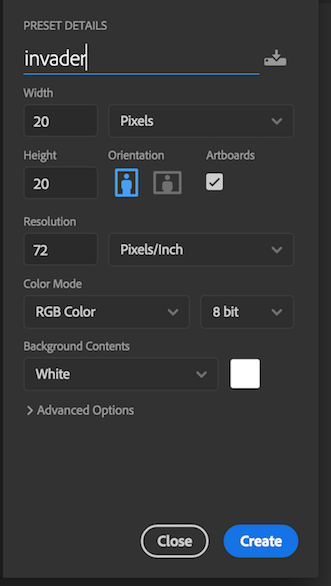
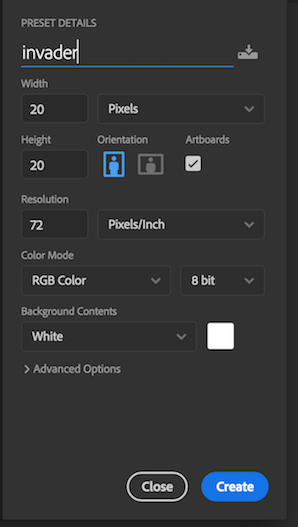
small changes

diff --git a/_posts/2016-12-11-photoshop-pixel-art.md b/_posts/2016-12-11-photoshop-pixel-art.md
@@ -5,7 +5,7 @@ comments: True
 excerpt_separator: <!--more-->
 ---
 
-I'm a huge fan of retro video games and pixel art. Over the christmas break, I tried (after a long hiatus) to create some pixel art for a retro-style 2D game I was building in Unity for fun. I had to struggle a little in setting up Photoshop to create 2D sprites and the background, so here's a quick step-by-step tutorial on how to configure Photoshop to create pixel art.
+I'm a huge fan of retro video games and [pixel art](http://imgur.com/a/d30KO). Over the christmas break, I tried (after a long hiatus) to create some pixel art for a retro-style 2D mobile game I was building in Unity for fun. I had to struggle a little in setting up Photoshop to create 2D sprites and the background, so here's a quick step-by-step tutorial on how to configure Photoshop to create pixel art.
 
 <!--more-->
 
@@ -13,7 +13,7 @@ I'm a huge fan of retro video games and pixel art. Over the christmas break, I t
 
 Pixel art is done in very low resolutions. What this means is that you'll start by creating a **very small image, one that you can barely see without zooming in**. I can't give you a rule of thumb, but I generally use 20x20 pixels for sprites (sometimes 40x40 pixels if I want to put in more details) and about 150x80 pixels for backgrounds.
 
-So go ahead and create a new image in Photoshop. The screenshot below is for creating a 20x20 pixels sprite.
+So go ahead and create a new image in Photoshop. The screenshot below is for creating a *20x20 pixels* sprite.
 
 ![photoshop-pixel-art]({{ site.url }}/img/ps-pixel/1.png)
 
@@ -23,19 +23,21 @@ After you have created the image, you'll be able to see it barely. So zoom in so
 
 ## Step 2: Setup Image Interpolation to Nearest Neighbors
 
-When your pixel art is resized or scaled, you'll want the edges or corners to look hard and jagged instead of smooth and blurred. Be default, Photoshop uses Bicubic interpolation (or Bilinear) that produces a blurred effect when images are enlarged. While Bicubic interpolation works great for normal images, pixel art scaled using Bicubic look terrible and blurry as hell. As as example ([source](http://blog.demofox.org/2015/08/15/resizing-images-with-bicubic-interpolation/)):
+When your pixel art is resized or scaled, you'll want the **edges or corners to look hard and jagged instead of smooth and blurred**. Be default, Photoshop uses *Bicubic interpolation* (or Bilinear) that produces a blurred effect when images are enlarged. While Bicubic interpolation works great for normal images, pixel art scaled using Bicubic look terrible and blurry as hell. As as example ([source](http://blog.demofox.org/2015/08/15/resizing-images-with-bicubic-interpolation/)):
 
 > Here’s the old man from The Legend of Zelda who gives you the sword. (*You may want to squint to see it*)
 
 ![old-man-from-zelda-original]({{ site.url }}/img/ps-pixel/LozMan.bmp)
 
-> Here he is scaled up 4x with nearest neighbor ... and bicubic interpolation.
-
-![old-man-from-zelda-nn]({{ site.url }}/img/ps-pixel/lozman_4_0.bmp)
+Here he is scaled up **4x with Bicubic interpolation**:
 
 ![old-man-from-zelda-nn]({{ site.url }}/img/ps-pixel/lozman_4_2.bmp)
 
-So you'll need to tell Photoshop to use the 'Nearest Neighbor' image interpolation algorithm.
+Scale here 4x using **Nearest Neighbor**:
+
+![old-man-from-zelda-nn]({{ site.url }}/img/ps-pixel/lozman_4_0.bmp)
+
+See the difference? Here's how to configure Photoshop to use the 'Nearest Neighbor' image interpolation algorithm.
 
 ![photoshop-pixel-art]({{ site.url }}/img/ps-pixel/5.png)
 

diff --git a/_posts/2017-1-16-leadership-vs-management-leaders-have-a-dream.md b/_posts/2017-1-16-leadership-vs-management-leaders-have-a-dream.md
@@ -1,6 +1,6 @@
 ---
 layout: post
-title: Leadership vs Management - Leaders Have a Dream.
+title: Leadership vs Management - Leaders Have a Dream
 comments: True
 excerpt_separator: <!--more-->
 ---
